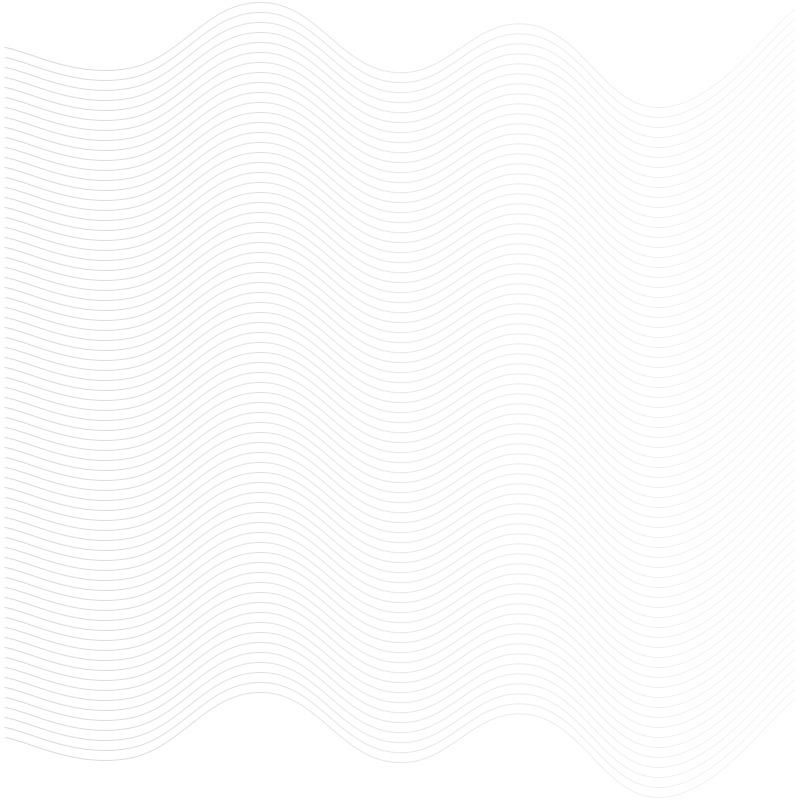
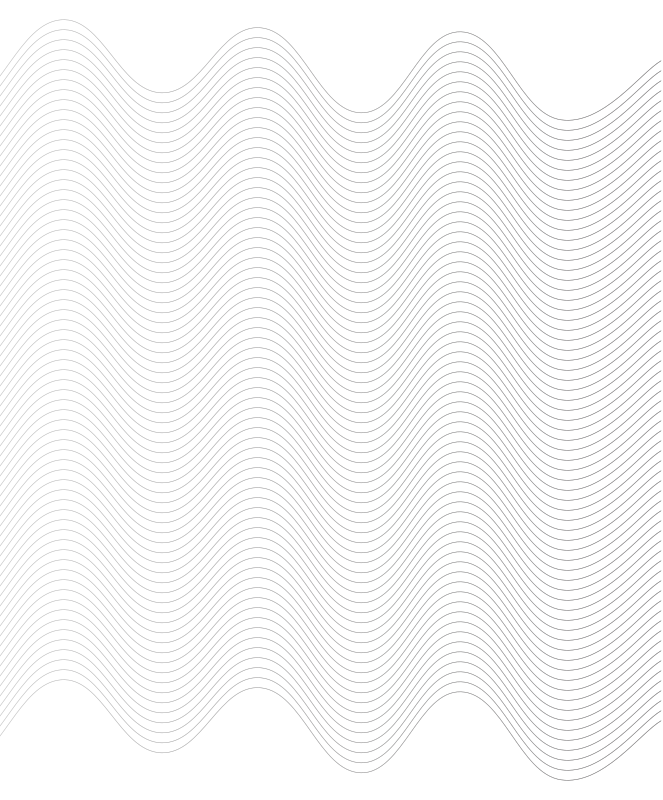
fix

Changed region(s): [[0.0, 0.0312, 0.9955, 0.9688]]

diff --git a/new_app/src/components/header.css b/new_app/src/components/header.css
@@ -114,13 +114,13 @@ nav {
 
 #back1 {
     animation: move1 15s linear infinite;
-    opacity: 0.1;
+    /* opacity: 0.1; */
     width: 101vw;
 }
 
 #back2 {
     animation: move2 15s linear infinite;
-    opacity: 0.1;
+    /* opacity: 0.1; */
     width: 101vw;
 }
 
